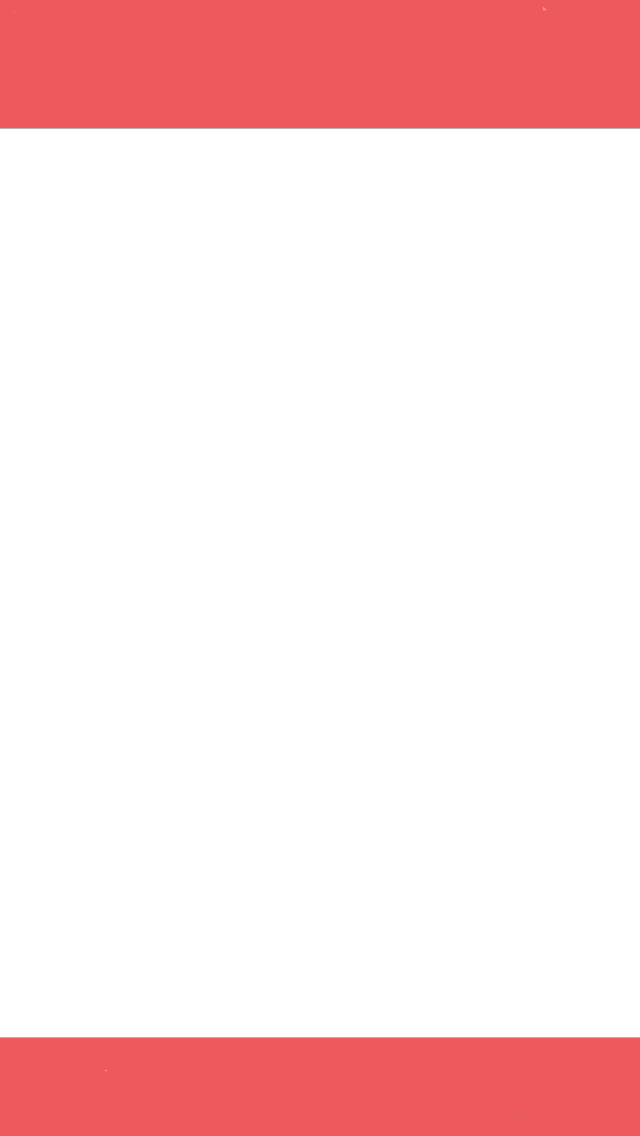
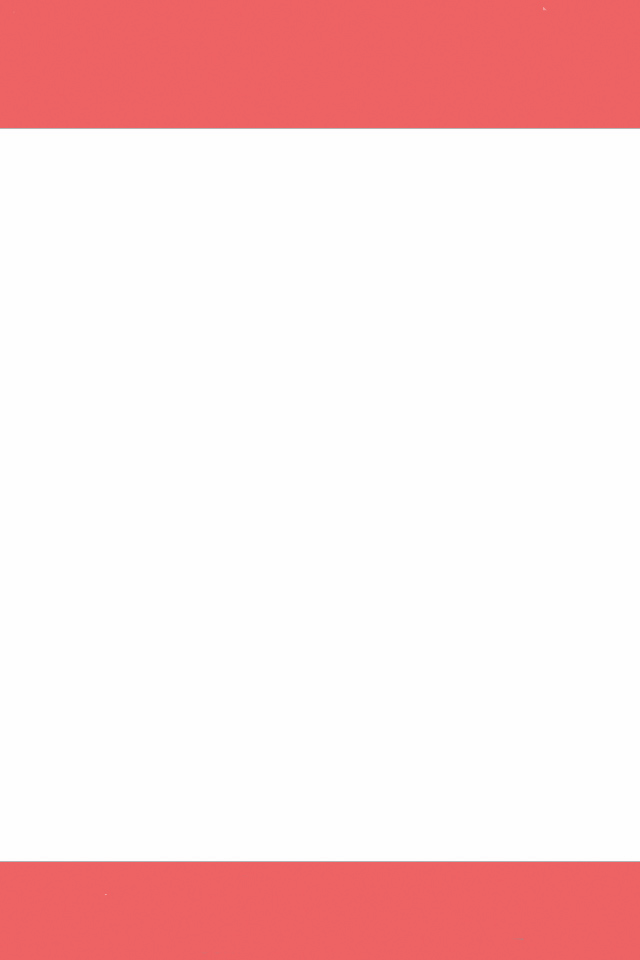
Update default image size

Changed region(s): [[0.0, 0.875, 1.0, 0.9375], [0.0, 0.0938, 1.0, 0.1562]]

diff --git a/LovingHeart/MostRecentStoriesViewController.m b/LovingHeart/MostRecentStoriesViewController.m
@@ -7,6 +7,8 @@
 //
 
 #import "MostRecentStoriesViewController.h"
+#import <BlocksKit/BlocksKit.h>
+#import <UIBarButtonItem+BlocksKit.h>
 
 @interface MostRecentStoriesViewController ()
 
@@ -21,6 +23,11 @@
   
   [_composeBarButtonItem setTarget:self];
   [_composeBarButtonItem setAction:@selector(composePressed:)];
+  
+  UIBarButtonItem *composeItem = [[UIBarButtonItem alloc] bk_initWithBarButtonSystemItem:UIBarButtonSystemItemCompose handler:^(id sender) {
+    NSLog(@"Compose button blocksKit pressed.");
+  }];
+  [self.navigationItem setRightBarButtonItem:composeItem];
 }
 
 - (void)composePressed:(id)buttonItem {
